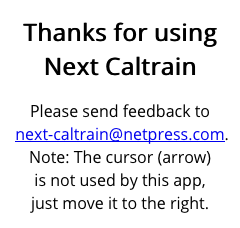
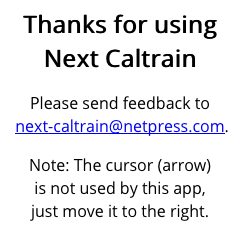
Move the fake keypad.

diff --git a/webapp/es5/NextCaltrain.js b/webapp/es5/NextCaltrain.js
@@ -29,7 +29,7 @@ var screens = 'hero grid trip about commands'.split(' ');
 var titles = { 'about': 'About Next Caltrain', 'commands': 'Keypad commands' };
 var email = 'next-caltrain@netpress.com';
 
-var hints = [['Set your origin', [4, 6], 'Use [4] and [6] keys to<br/>set your origin station.'], ['Set destination', [7, 9], 'Use [7] and [9] keys to<br/>set destination station.'], ['Select a train', [5, 8], 'Use [5] and [8] keys to<br/>move seletion up or down.'], ['Flip direction', ['c'], 'Press the [CALL] button to<br/>flip the selected stations'], ['Save stations', ['l'], 'Press the [LEFT] softkey to<br/>select "Save Stations".'], ['Bookmark app', ['r'], 'Press the [RIGHT] softkey to<br/>select "Pin to Apps Menu".'], ['Change schedule', ['0'], 'Press [0] to cycle through<br/>available schedules.'], ['Thanks for using<br/> Next Caltrain', null, `Please send feedback to<br/>&nbsp;<a href="mailto:${email}">${email}</a>.<br/>` + 'Note: The cursor (arrow)<br/>is not used by this app,<br/>' + 'just move it to the right.<br/>']];
+var hints = [['Set your origin', [4, 6], 'Use [4] and [6] keys to<br/>set your origin station.'], ['Set destination', [7, 9], 'Use [7] and [9] keys to<br/>set destination station.'], ['Select a train', [5, 8], 'Use [5] and [8] keys to<br/>move seletion up or down.'], ['Flip direction', ['c'], 'Press the [CALL] button to<br/>flip the selected stations'], ['Save stations', ['l'], 'Press the [LEFT] softkey to<br/>select "Save Stations".'], ['Bookmark app', ['r'], 'Press the [RIGHT] softkey to<br/>select "Pin to Apps Menu".'], ['Change schedule', ['0'], 'Press [0] to cycle through<br/>available schedules.'], ['Thanks for using<br/> Next Caltrain', `Please send feedback to<br/>&nbsp;<a href="mailto:${email}">${email}</a>.`, 'Note: The cursor (arrow)<br/>is not used by this app,<br/>just move it to the right.']];
 
 var hintIndex = -1;
 
@@ -76,15 +76,18 @@ var NextCaltrain = function () {
       if (hintIndex >= hints.length) hintIndex = 0;
       document.getElementById('hint-above').innerHTML = hints[hintIndex][0];
       document.getElementById('hint-below').innerHTML = hints[hintIndex][2];
-      if (hints[hintIndex][1] === null) {
-        document.getElementById('mini-keypad').style['display'] = 'none';
-      } else {
+      if (Array.isArray(hints[hintIndex][1])) {
         document.getElementById('mini-keypad').style['display'] = 'flex';
+        document.getElementById('hint-center').style['display'] = 'none';
         for (var i = 4; i < 18; i++) {
           var key = i < 10 ? i : ['l', 'r', 'c', 'o', 'h', '*', '0', '#'][i - 10];
           var cls = hints[hintIndex][1].indexOf(key) == -1 ? 'default' : 'selected';
           document.getElementById(`k${key}`).className = cls;
         }
+      } else {
+        document.getElementById('mini-keypad').style['display'] = 'none';
+        document.getElementById('hint-center').style['display'] = 'block';
+        document.getElementById('hint-center').innerHTML = hints[hintIndex][1];
       }
     }
   }, {

diff --git a/src/NextCaltrain.js b/src/NextCaltrain.js
@@ -38,10 +38,9 @@ const hints = [
    'Press the [RIGHT] softkey to<br/>select "Pin to Apps Menu".'],
   ['Change schedule', ['0'],
    'Press [0] to cycle through<br/>available schedules.'],
-  ['Thanks for using<br/> Next Caltrain', null,
-   `Please send feedback to<br/>&nbsp;<a href="mailto:${email}">${email}</a>.<br/>` +
-   'Note: The cursor (arrow)<br/>is not used by this app,<br/>' +
-   'just move it to the right.<br/>']];
+  ['Thanks for using<br/> Next Caltrain',
+   `Please send feedback to<br/>&nbsp;<a href="mailto:${email}">${email}</a>.`,
+   'Note: The cursor (arrow)<br/>is not used by this app,<br/>just move it to the right.']];
 
 let hintIndex = -1;
 
@@ -83,15 +82,18 @@ class NextCaltrain {
     if (hintIndex >= hints.length) hintIndex = 0;
     document.getElementById('hint-above').innerHTML = hints[hintIndex][0];
     document.getElementById('hint-below').innerHTML = hints[hintIndex][2];
-    if (hints[hintIndex][1] === null) {
-      document.getElementById('mini-keypad').style['display'] = 'none';
-    } else {
+    if (Array.isArray(hints[hintIndex][1])) {
       document.getElementById('mini-keypad').style['display'] = 'flex';
+      document.getElementById('hint-center').style['display'] = 'none';
       for (let i = 4; i < 18; i++) {
         let key = (i < 10) ? i : ['l','r','c','o','h','*','0','#'][i - 10];
         let cls = hints[hintIndex][1].indexOf(key) == -1 ? 'default' : 'selected';
         document.getElementById(`k${key}`).className = cls;
       }
+    } else {
+      document.getElementById('mini-keypad').style['display'] = 'none';
+      document.getElementById('hint-center').style['display'] = 'block';
+      document.getElementById('hint-center').innerHTML = hints[hintIndex][1];
     }
   }
 

diff --git a/webapp/index.html b/webapp/index.html
@@ -41,6 +41,7 @@
 
     <div id="commands-screen" style="display: none;">
       <div id="hint-above" class="hint"></div>
+      <div id="hint-center" class="hint" style="display: none;"></div>
       <div id="mini-keypad">
         <div class="keycol">
           <div id="kl">—</div>

diff --git a/webapp/style.css b/webapp/style.css
@@ -426,8 +426,6 @@ div > .selection-departed { border-color: var(--msg-selected-color);  }
   padding-top: 5px;
   display: flex;
   flex-direction: row;
-  position: fixed;
-  bottom: 0;
   width: 240px;
 }
 

diff --git a/README.md b/README.md
@@ -20,7 +20,7 @@ This app is fully functional, with support for Weekday, Saturday, Sunday and Mod
 Trips that require a transfer stop should be supported. From your KaiOS phone, visit:
 http://next-caltrain-pwa.appspot.com
 
-## Keyboard commands
+## Keypad Commands
 
 ![alt text](https://raw.githubusercontent.com/woodie/next-caltrain-pwa/master/docs/help0.png)
 ![alt text](https://raw.githubusercontent.com/woodie/next-caltrain-pwa/master/docs/help1.png)
@@ -36,9 +36,6 @@ http://next-caltrain-pwa.appspot.com
 
 ![alt text](https://raw.githubusercontent.com/woodie/next-caltrain-pwa/master/docs/phones.png)
 
-<img src="https://raw.githubusercontent.com/woodie/next-caltrain-pwa/master/docs/hero.png"
-     valign="top"> &nbsp; <img
-     src="https://raw.githubusercontent.com/woodie/next-caltrain-pwa/master/docs/grid.png"
-     valign="top"> &nbsp; <img
-     src="https://raw.githubusercontent.com/woodie/next-caltrain-pwa/master/docs/trip.png"
-     valign="top">
+![alt text](https://raw.githubusercontent.com/woodie/next-caltrain-pwa/master/docs/hero.png) &nbsp;
+![alt text](https://raw.githubusercontent.com/woodie/next-caltrain-pwa/master/docs/grid.png) &nbsp;
+![alt text](https://raw.githubusercontent.com/woodie/next-caltrain-pwa/master/docs/trip.png)
